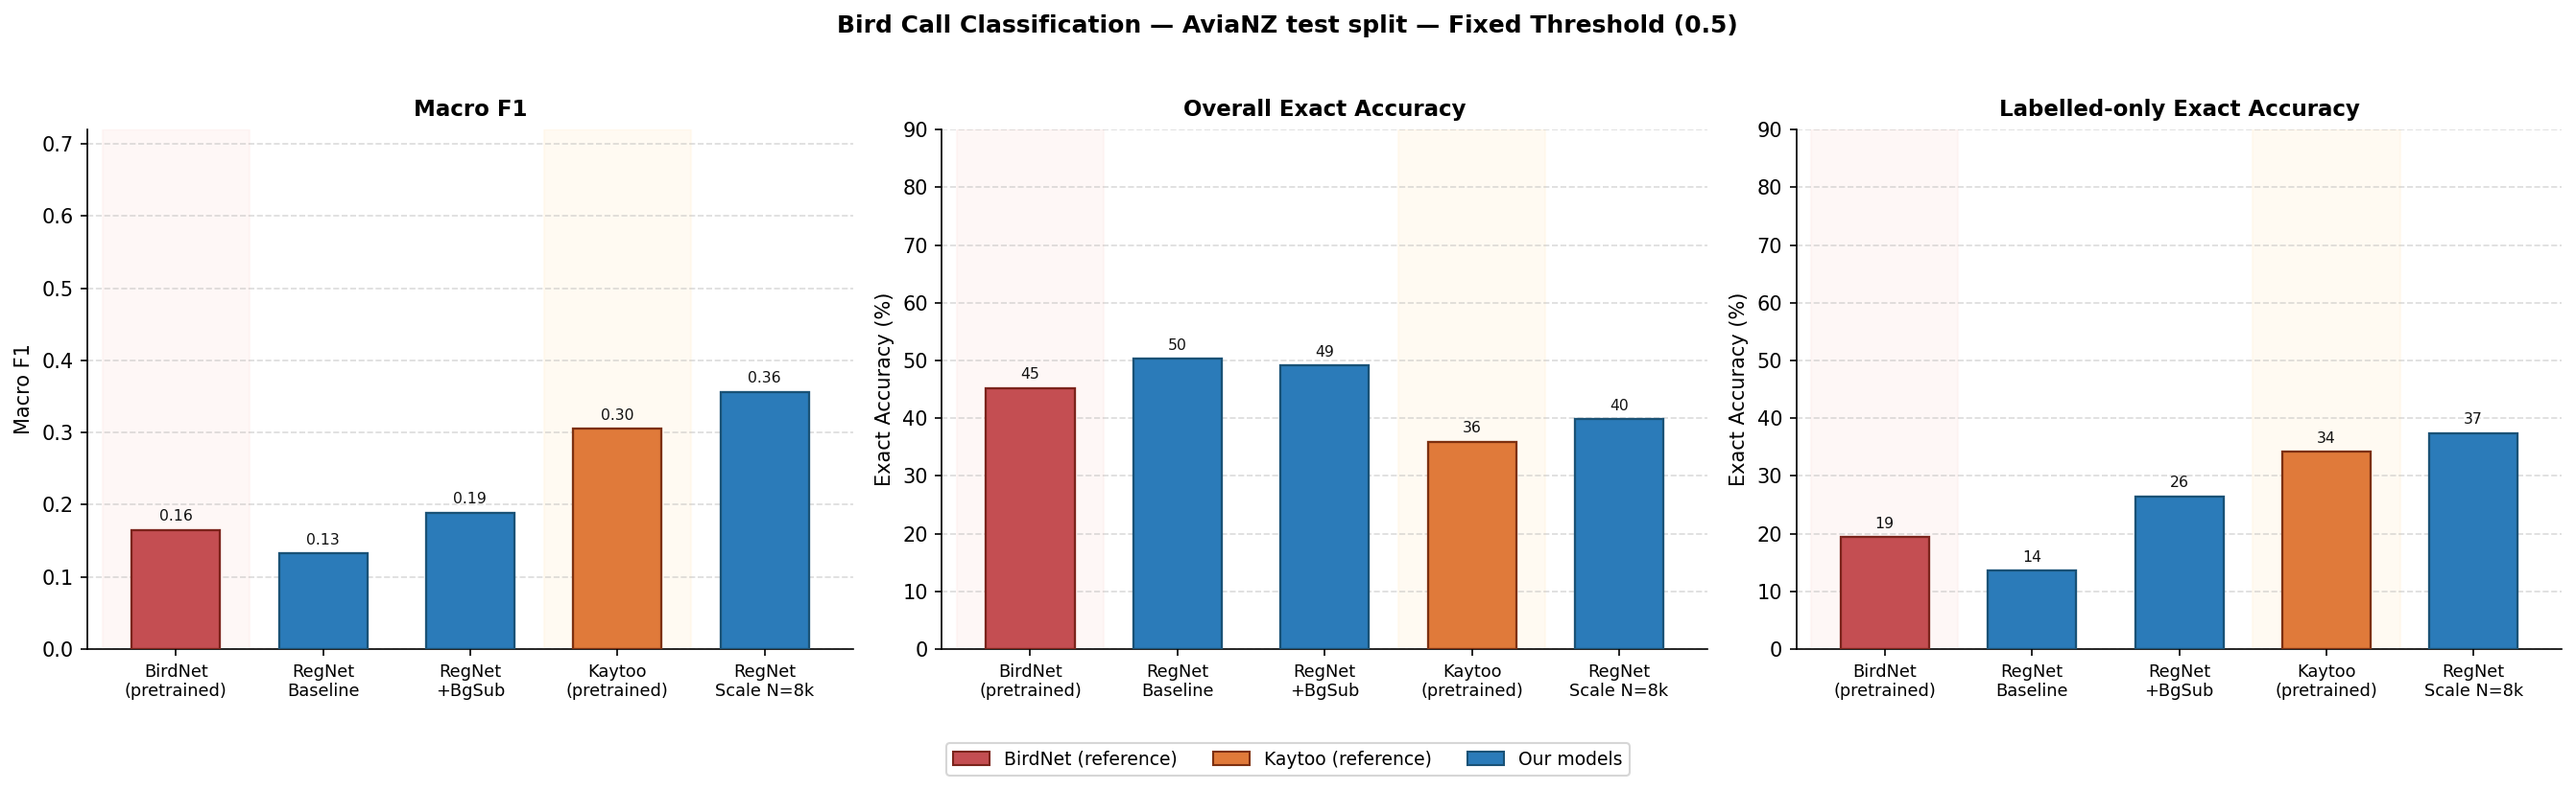
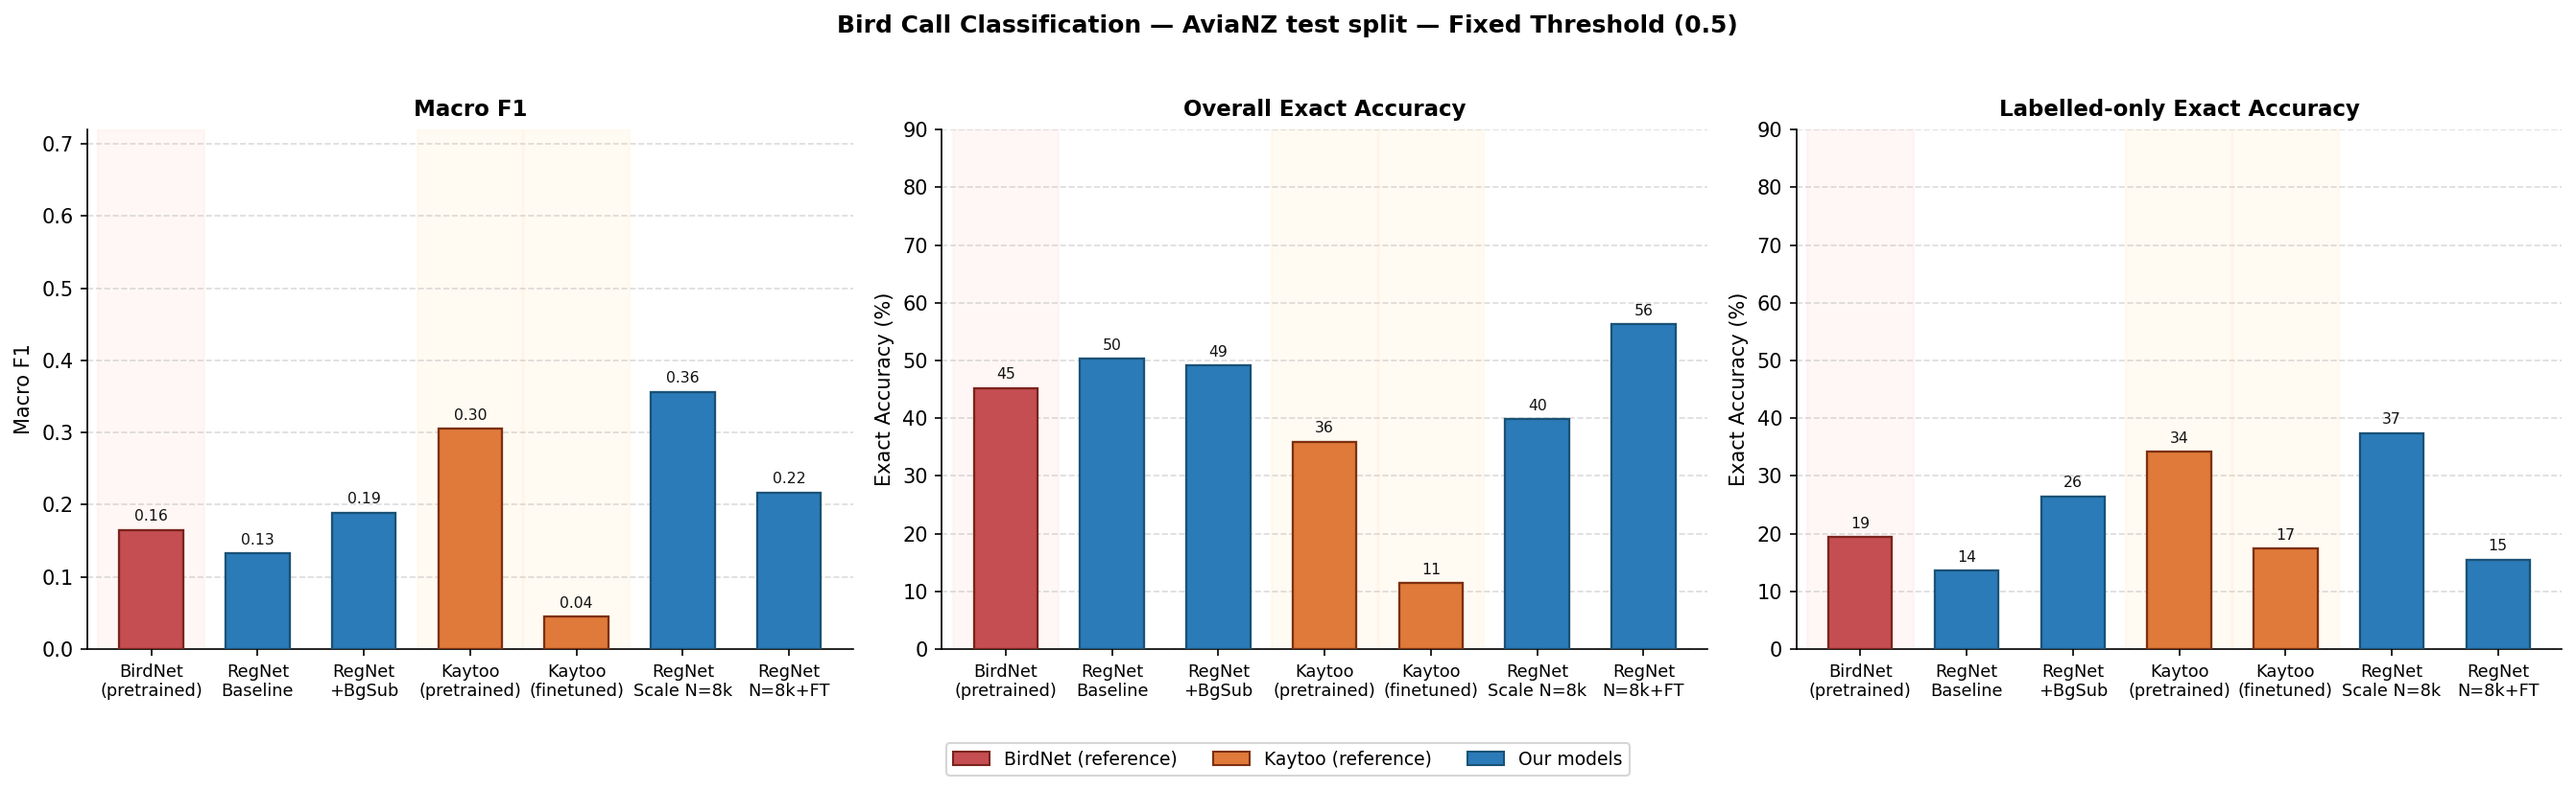
fix

Changed region(s): [[0.3711, 0.3944, 0.6494, 0.8799], [0.0309, 0.4854, 0.3402, 0.8799], [0.7113, 0.5461, 0.9896, 0.8799]]

diff --git a/scripts/finetune_kaytoo.py b/scripts/finetune_kaytoo.py
@@ -1,17 +1,24 @@
 """
-Fine-tune the pre-trained Kaytoo model on a matched/corrected training set and
-then evaluate it on the test sets, producing outputs in the same format as
+Fine-tune the pre-trained Kaytoo model on the corrected DOC matched training
+set and evaluate it on both test sets, producing outputs in the same format as
 evaluate_kaytoo.py so that plain Kaytoo and fine-tuned Kaytoo can be compared
 directly with analyze_all_results.py.
 
-Each training split folder must contain:
+Training uses ONLY the corrected DOC matched train split (doc_split/train).
+AviaNZ data is used for evaluation only.
+
+The training folder must contain:
   labels.json   - with class_names field per sample (same format as test sets)
   audio/        - .wav files named file_XXXXXXXX.wav
 
+Both labelled samples AND background (no-bird) samples are included in training
+so the model retains its ability to suppress false positives.
+
 Usage:
     python scripts/finetune_kaytoo.py \\
-        /path/to/avianz_split/train /path/to/avianz_split/test \\
-        /path/to/doc_split/train    /path/to/doc_split/test \\
+        --doc-train   /path/to/doc_split/train \\
+        --avianz-test /path/to/avianz_split/test \\
+        --doc-test    /path/to/doc_split/test \\
         --kaytoo-root /path/to/Kaytoo \\
         --mapping     data/DOC_bird_naming_map.csv \\
         --output      results/kaytoo_finetuned_seed0 \\
@@ -123,7 +130,15 @@ def build_training_df(train_folder, label_to_ebird):
                     ebird_codes.add(code)
 
         if not ebird_codes:
-            # background / unlabelled sample — skip during fine-tuning
+            # background / no-bird sample — include with all-zero bird labels
+            # so the model keeps learning to suppress false positives.
+            rows.append({
+                'filepath': str(wav_path),
+                'primary_label': 'nocall',
+                'secondary_labels': [],
+                'centres': [],
+                '_all_codes': [],
+            })
             continue
 
         rows.append({
@@ -134,8 +149,11 @@ def build_training_df(train_folder, label_to_ebird):
             '_all_codes': sorted(ebird_codes),
         })
 
+    labelled = sum(1 for r in rows if r['primary_label'] != 'nocall')
+    background = len(rows) - labelled
     if not rows:
-        raise ValueError(f"No usable labelled samples found in {train_folder}")
+        raise ValueError(f"No usable samples found in {train_folder}")
+    print(f"  {labelled} labelled samples, {background} background samples")
 
     df = pd.DataFrame(rows)
     return df

diff --git a/summary_figure/summary_table.md b/summary_figure/summary_table.md
@@ -18,7 +18,9 @@ augmentation, and cross-dataset generalisation.
 | RegNet Baseline | 0.133 | 0.448 | 50.3% | 13.5% | 69.9% | 41.9% |
 | RegNet +BgSub | 0.189 | 0.472 | 49.1% | 26.5% | 71.1% | 46.1% |
 | Kaytoo (pretrained) | 0.305 | 0.501 | 35.9% | 34.2% | 51.6% | 43.7% |
+| Kaytoo (finetuned) | 0.045 | 0.091 | 11.4% | 17.4% | 23.4% | 30.5% |
 | RegNet Scale N=8k | 0.356 | 0.448 | 39.8% | 37.4% | 41.9% | 58.7% |
+| RegNet N=8k+FT | 0.217 | 0.541 | 56.3% | 15.5% | 69.6% | 52.1% |
 
 ## Per-class tuned thresholds (†)
 
@@ -28,7 +30,9 @@ augmentation, and cross-dataset generalisation.
 | RegNet Baseline | 0.298 | 0.567 | 1.5% | 3.2% | 73.7% | 43.7% |
 | RegNet +BgSub | 0.358 | 0.632 | 25.4% | 18.1% | 76.1% | 53.9% |
 | Kaytoo (pretrained) | 0.486 | 0.631 | 40.1% | 42.6% | 68.7% | 53.3% |
+| Kaytoo (finetuned) | 0.309 | 0.397 | 39.5% | 15.5% | 44.8% | 37.1% |
 | RegNet Scale N=8k | 0.467 | 0.545 | 38.0% | 52.3% | 68.2% | 57.5% |
+| RegNet N=8k+FT | 0.432 | 0.641 | 45.5% | 42.6% | 72.0% | 67.7% |
 
 ---
 
